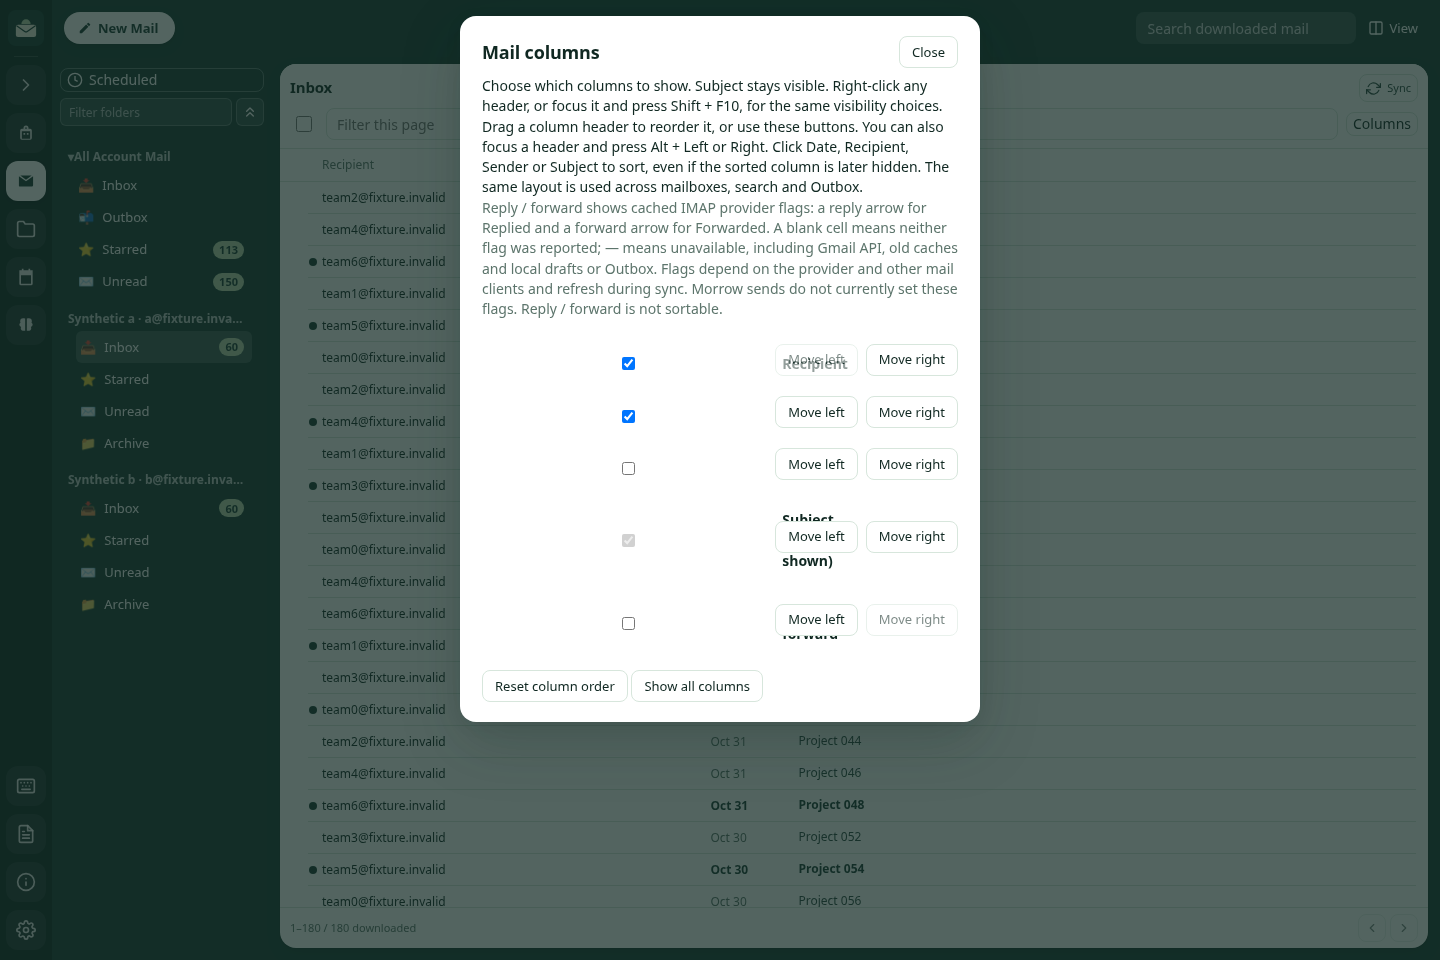
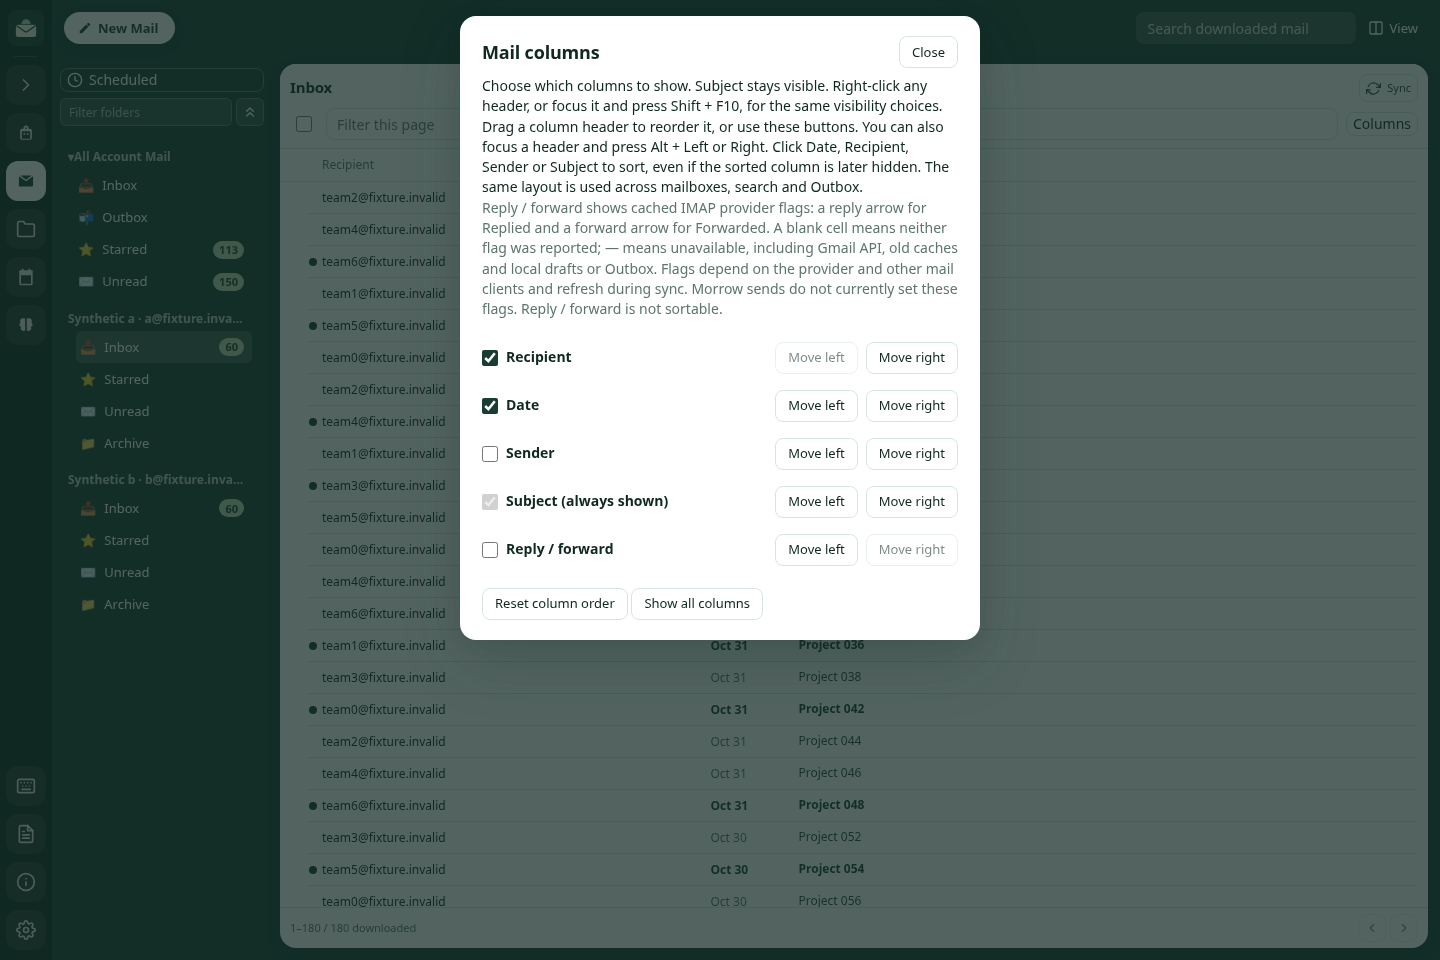
Keep column editor checkboxes within their labels

diff --git a/scripts/check-mail-layout-browser.js b/scripts/check-mail-layout-browser.js
@@ -234,6 +234,8 @@ async function verifyColumnControls(page, initialize) {
  assert.equal(await page.locator('[data-sort-key="sender"]').isVisible(),false);assert.equal(await page.locator('[data-sort-key="status"]').isVisible(),false);
  await page.locator('#mail-columns-open').click();
  assert.equal(await page.locator('[data-visibility="sender"]').isChecked(),false);
+ const editorGeometry=await page.locator('#mail-columns-order li').evaluateAll(rows=>rows.map(row=>{const label=row.querySelector('label').getBoundingClientRect(),check=row.querySelector('input').getBoundingClientRect(),move=row.querySelector('button').getBoundingClientRect();return {labelRight:label.right,checkRight:check.right,checkWidth:check.width,moveLeft:move.left}}));
+ assert.ok(editorGeometry.every(row=>row.checkWidth<=20&&row.checkRight<=row.labelRight&&row.labelRight+4<=row.moveLeft),JSON.stringify(editorGeometry));
  await page.screenshot({path:path.join(output,'columns-dialog.png')});
  await page.getByRole('button',{name:'Show all columns',exact:true}).click();
  assert.equal(await page.locator('[data-visibility="sender"]').isChecked(),true);
@@ -287,5 +289,5 @@ async function verifyColumnControls(page, initialize) {
  const disabledHeader=await page.locator('[data-sort-key="recipient"] button').boundingBox();
  await page.mouse.click(disabledHeader.x+12,disabledHeader.y+12,{button:'right'});
  assert.equal(await page.locator('#mail-column-menu').isVisible(),true,'Outbox disabled sorting header still offers column choices');await page.keyboard.press('Escape');
- return {stacking,menuAxeViolations:a11y,subjectOnlyOverflow:overflow,outboxRecipients:'formatted multi-account To and empty To passed'};
+ return {stacking,menuAxeViolations:a11y,editorGeometry,subjectOnlyOverflow:overflow,outboxRecipients:'formatted multi-account To and empty To passed'};
 }

diff --git a/renderer/app.css b/renderer/app.css
@@ -6038,8 +6038,8 @@ pre.outbox-body { white-space: pre-wrap; font: inherit; margin: 12px 0 0; }
 .mail-list-columns button[draggable="true"] { cursor: grab; }
 #mail-columns-order { padding: 0; list-style: none; }
 #mail-columns-order li { display: flex; align-items: center; gap: 8px; padding: 8px 0; }
-#mail-columns-order li > label { flex: 1; display: flex; align-items: center; gap: 8px; min-width: 0; }
-#mail-columns-order input { flex: 0 0 auto; }
+#mail-columns-order li > label { flex: 1; display: flex; align-items: center; gap: 8px; min-width: 0; margin: 0; }
+#mail-columns-order input { flex: 0 0 auto; width: 16px; height: 16px; margin: 0; padding: 0; accent-color: var(--accent-ink); }
 #mail-columns-open { flex: 0 0 auto; }
 .mail-reply-forward { display: flex; align-items: center; gap: 6px; color: var(--ink-mid); font-size: 12px; }
 .mail-reply-forward svg { flex: 0 0 auto; }

diff --git a/docs/testing/mail-status-columns/README.md b/docs/testing/mail-status-columns/README.md
@@ -23,8 +23,8 @@ SMTP send, OS Keychain or actual user profile was accessed.
 - `MORROW_PLAYWRIGHT_MODULE=/path/to/playwright MORROW_AXE_MODULE=/path/to/axe-core/axe.min.js MORROW_UI_OUTPUT=/tmp/morrow-status-columns-evidence node scripts/check-mail-layout-browser.js`:
   real HTML/CSS/renderer in Chromium; mouse/Enter/Space sorting, drag and keyboard
   reordering, reload persistence, context-menu/Shift+F10 navigation, Escape focus
-  return, hiding the sorted column, touch checkbox controls, status refresh focus,
-  and a Subject-only narrow grid. Dialog and header-menu axe checks have no
+  return, hiding the sorted column, touch checkbox controls, status refresh focus, checkbox/label geometry,
+  Outbox header menus with sorting disabled, and a Subject-only narrow grid. Dialog and header-menu axe checks have no
   WCAG 2 A/AA violations in their tested rules. Existing right/bottom/window,
   splitter resize, selection, search and scroll checks remain included, with
   narrow/mobile, compact/comfortable, light/dark and reduced-motion coverage.
